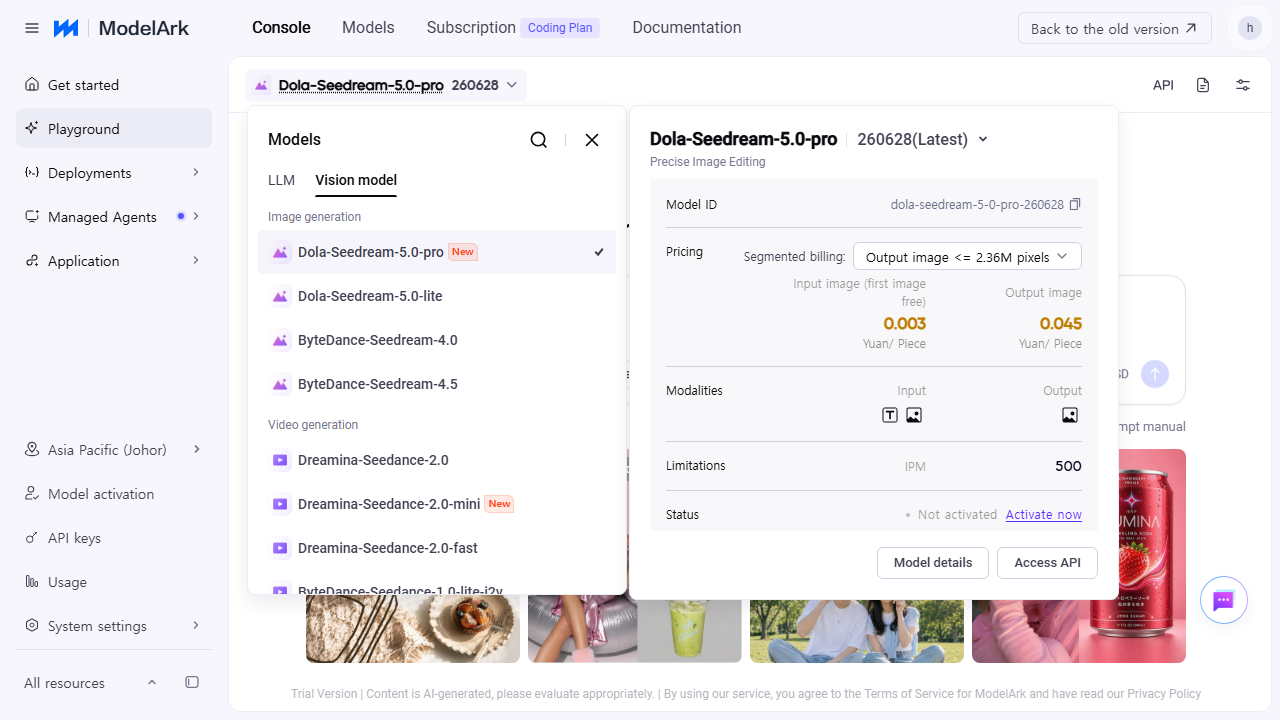
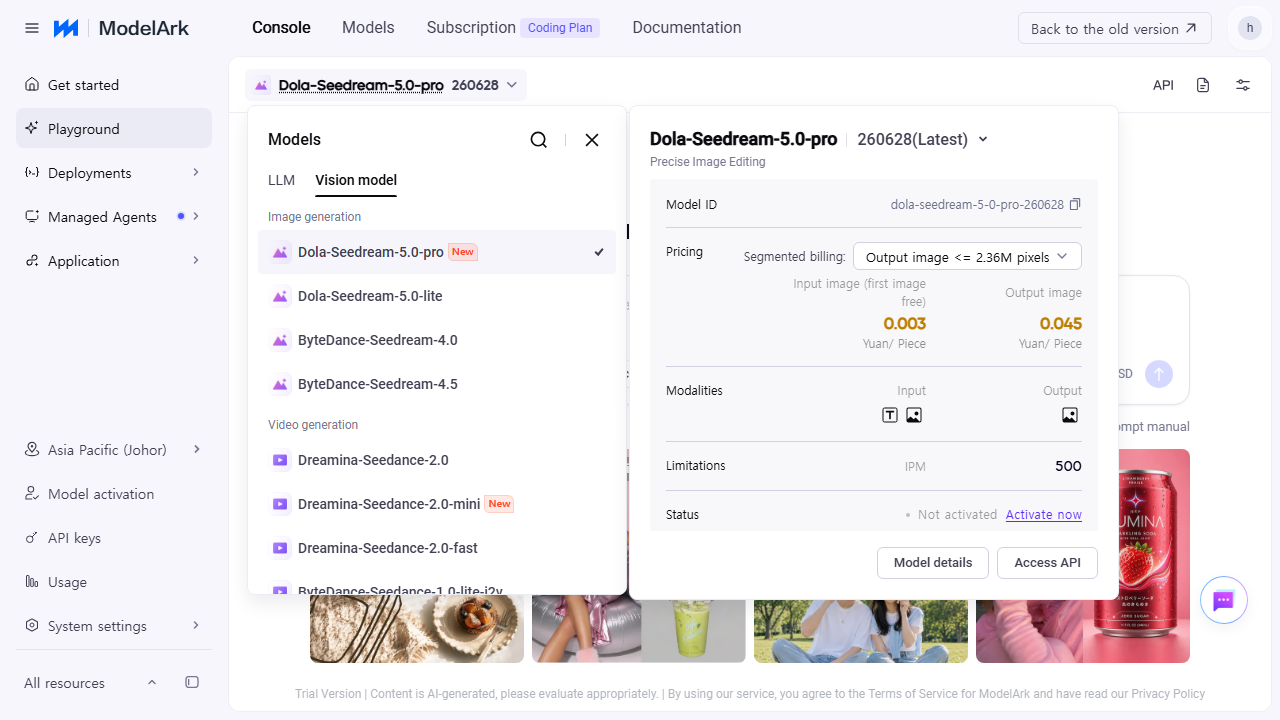
auto: Cowork/CLI 동기화 2026-07-17 18:52

diff --git a/63_youtube_creator/pipeline/byteplus_auto.py b/63_youtube_creator/pipeline/byteplus_auto.py
@@ -11,14 +11,16 @@ async def main():
         print(f"오류: 쿠키 파일을 찾을 수 없습니다. 경로: {COOKIE_PATH}")
         return
 
-    print("BytePlus Seedream 모델 자동 활성화 및 이미지 생성 테스트 (로고 클릭 우회)")
+    print("BytePlus Seedream 모델 자동 활성화 및 이미지 생성 테스트 (Viewport 및 Force 클릭 보강)")
     async with async_playwright() as p:
         browser = await p.chromium.launch(
             headless=True,
             args=["--disable-blink-features=AutomationControlled"]
         )
+        # Viewport 크기를 1920x1080 풀HD로 키워 요소 짤림 방지
         context = await browser.new_context(
-            user_agent="Mozilla/5.0 (Windows NT 10.0; Win64; x64) AppleWebKit/537.36 (KHTML, like Gecko) Chrome/120.0.0.0 Safari/537.36"
+            user_agent="Mozilla/5.0 (Windows NT 10.0; Win64; x64) AppleWebKit/537.36 (KHTML, like Gecko) Chrome/120.0.0.0 Safari/537.36",
+            viewport={"width": 1920, "height": 1080}
         )
         await context.add_init_script("Object.defineProperty(navigator, 'webdriver', {get: () => undefined})")
 
@@ -59,36 +61,36 @@ async def main():
         await image_tab.click()
         await page.wait_for_timeout(4000)
         
-        # 1. 모델 활성화(Activation) 처리 시도 (로고 클릭 우회)
+        # 1. 모델 활성화(Activation) 처리 시도
         print("모델 활성화 팝업 호출 시도 (로고 이미지 클릭)...")
         try:
-            # 첫 번째 img 태그(모델 로고)를 클릭하여 상세 팝업 오픈
+            # 첫 번째 img 태그 클릭하여 상세 팝업 오픈
             await page.locator("img").first.click()
             await page.wait_for_timeout(2000)
             
-            # Activate now 버튼 탐색 및 클릭
+            # Activate now 버튼 탐색 및 강제 클릭(force=True)
             activate_link = page.locator("text=Activate now").first
-            if await activate_link.count() > 0 and await activate_link.is_visible():
-                print("Activate now 링크 발견! 활성화 페이지로 이동 중...")
-                await activate_link.click()
+            if await activate_link.count() > 0:
+                print("Activate now 링크 발견! 활성화 진행...")
+                await activate_link.click(force=True)
                 await page.wait_for_timeout(3000)
                 
                 # 최종 승인 버튼 클릭 (Confirm / Agree / Activate)
                 confirm_active = page.locator("button:has-text('Confirm'), button:has-text('Agree'), button:has-text('Activate')").first
                 if await confirm_active.count() > 0:
                     print("활성화 최종 승인 버튼 클릭 진행...")
-                    await confirm_active.click()
+                    await confirm_active.click(force=True)
                     await page.wait_for_timeout(5000)
                     
                 activated_screenshot = r"D:\AI\63_youtube_creator\pipeline\output\byteplus_model_activated.png"
                 await page.screenshot(path=activated_screenshot)
-                print(f"모델 활성화 처리 화면 스크린샷 저장: {activated_screenshot}")
+                print(f"모델 활성화 시도 화면 스크린샷 저장: {activated_screenshot}")
             else:
                 print("Activate now 버튼이 보이지 않습니다. 이미 활성화 상태일 수 있습니다.")
         except Exception as e:
             print(f"모델 활성화 절차 중 오류 발생: {e}")
             
-        # 팝업 닫기 (새로고침을 하거나 Escape 전송)
+        # 팝업 닫기 (Escape 전송)
         await page.keyboard.press("Escape")
         await page.wait_for_timeout(2000)
         
@@ -98,15 +100,15 @@ async def main():
             # 예제 이미지 클릭 (Try the following example 바로 아래 그리드 내 첫 번째 이미지)
             example_img = page.locator("xpath=//div[contains(text(), 'Try the following example')]/following-sibling::div//img").first
             if await example_img.count() > 0:
-                await example_img.click()
+                await example_img.click(force=True)
                 await page.wait_for_timeout(2000)
             else:
-                await page.locator("text=Sketch-to-Image").first.click()
+                await page.locator("text=Sketch-to-Image").first.click(force=True)
                 await page.wait_for_timeout(2000)
                 
             # 텍스트 교체
             editor = page.locator(".tiptap.ProseMirror")
-            await editor.click()
+            await editor.click(force=True)
             await page.wait_for_timeout(1000)
             await page.keyboard.press("Control+A")
             await page.keyboard.press("Backspace")
@@ -123,7 +125,7 @@ async def main():
             
             if not is_disabled:
                 print("전송 버튼이 활성화되었습니다! 클릭 격발...")
-                await submit_btn.click()
+                await submit_btn.click(force=True)
                 await page.wait_for_timeout(5000)
                 
                 # 생성 중 스크린샷
